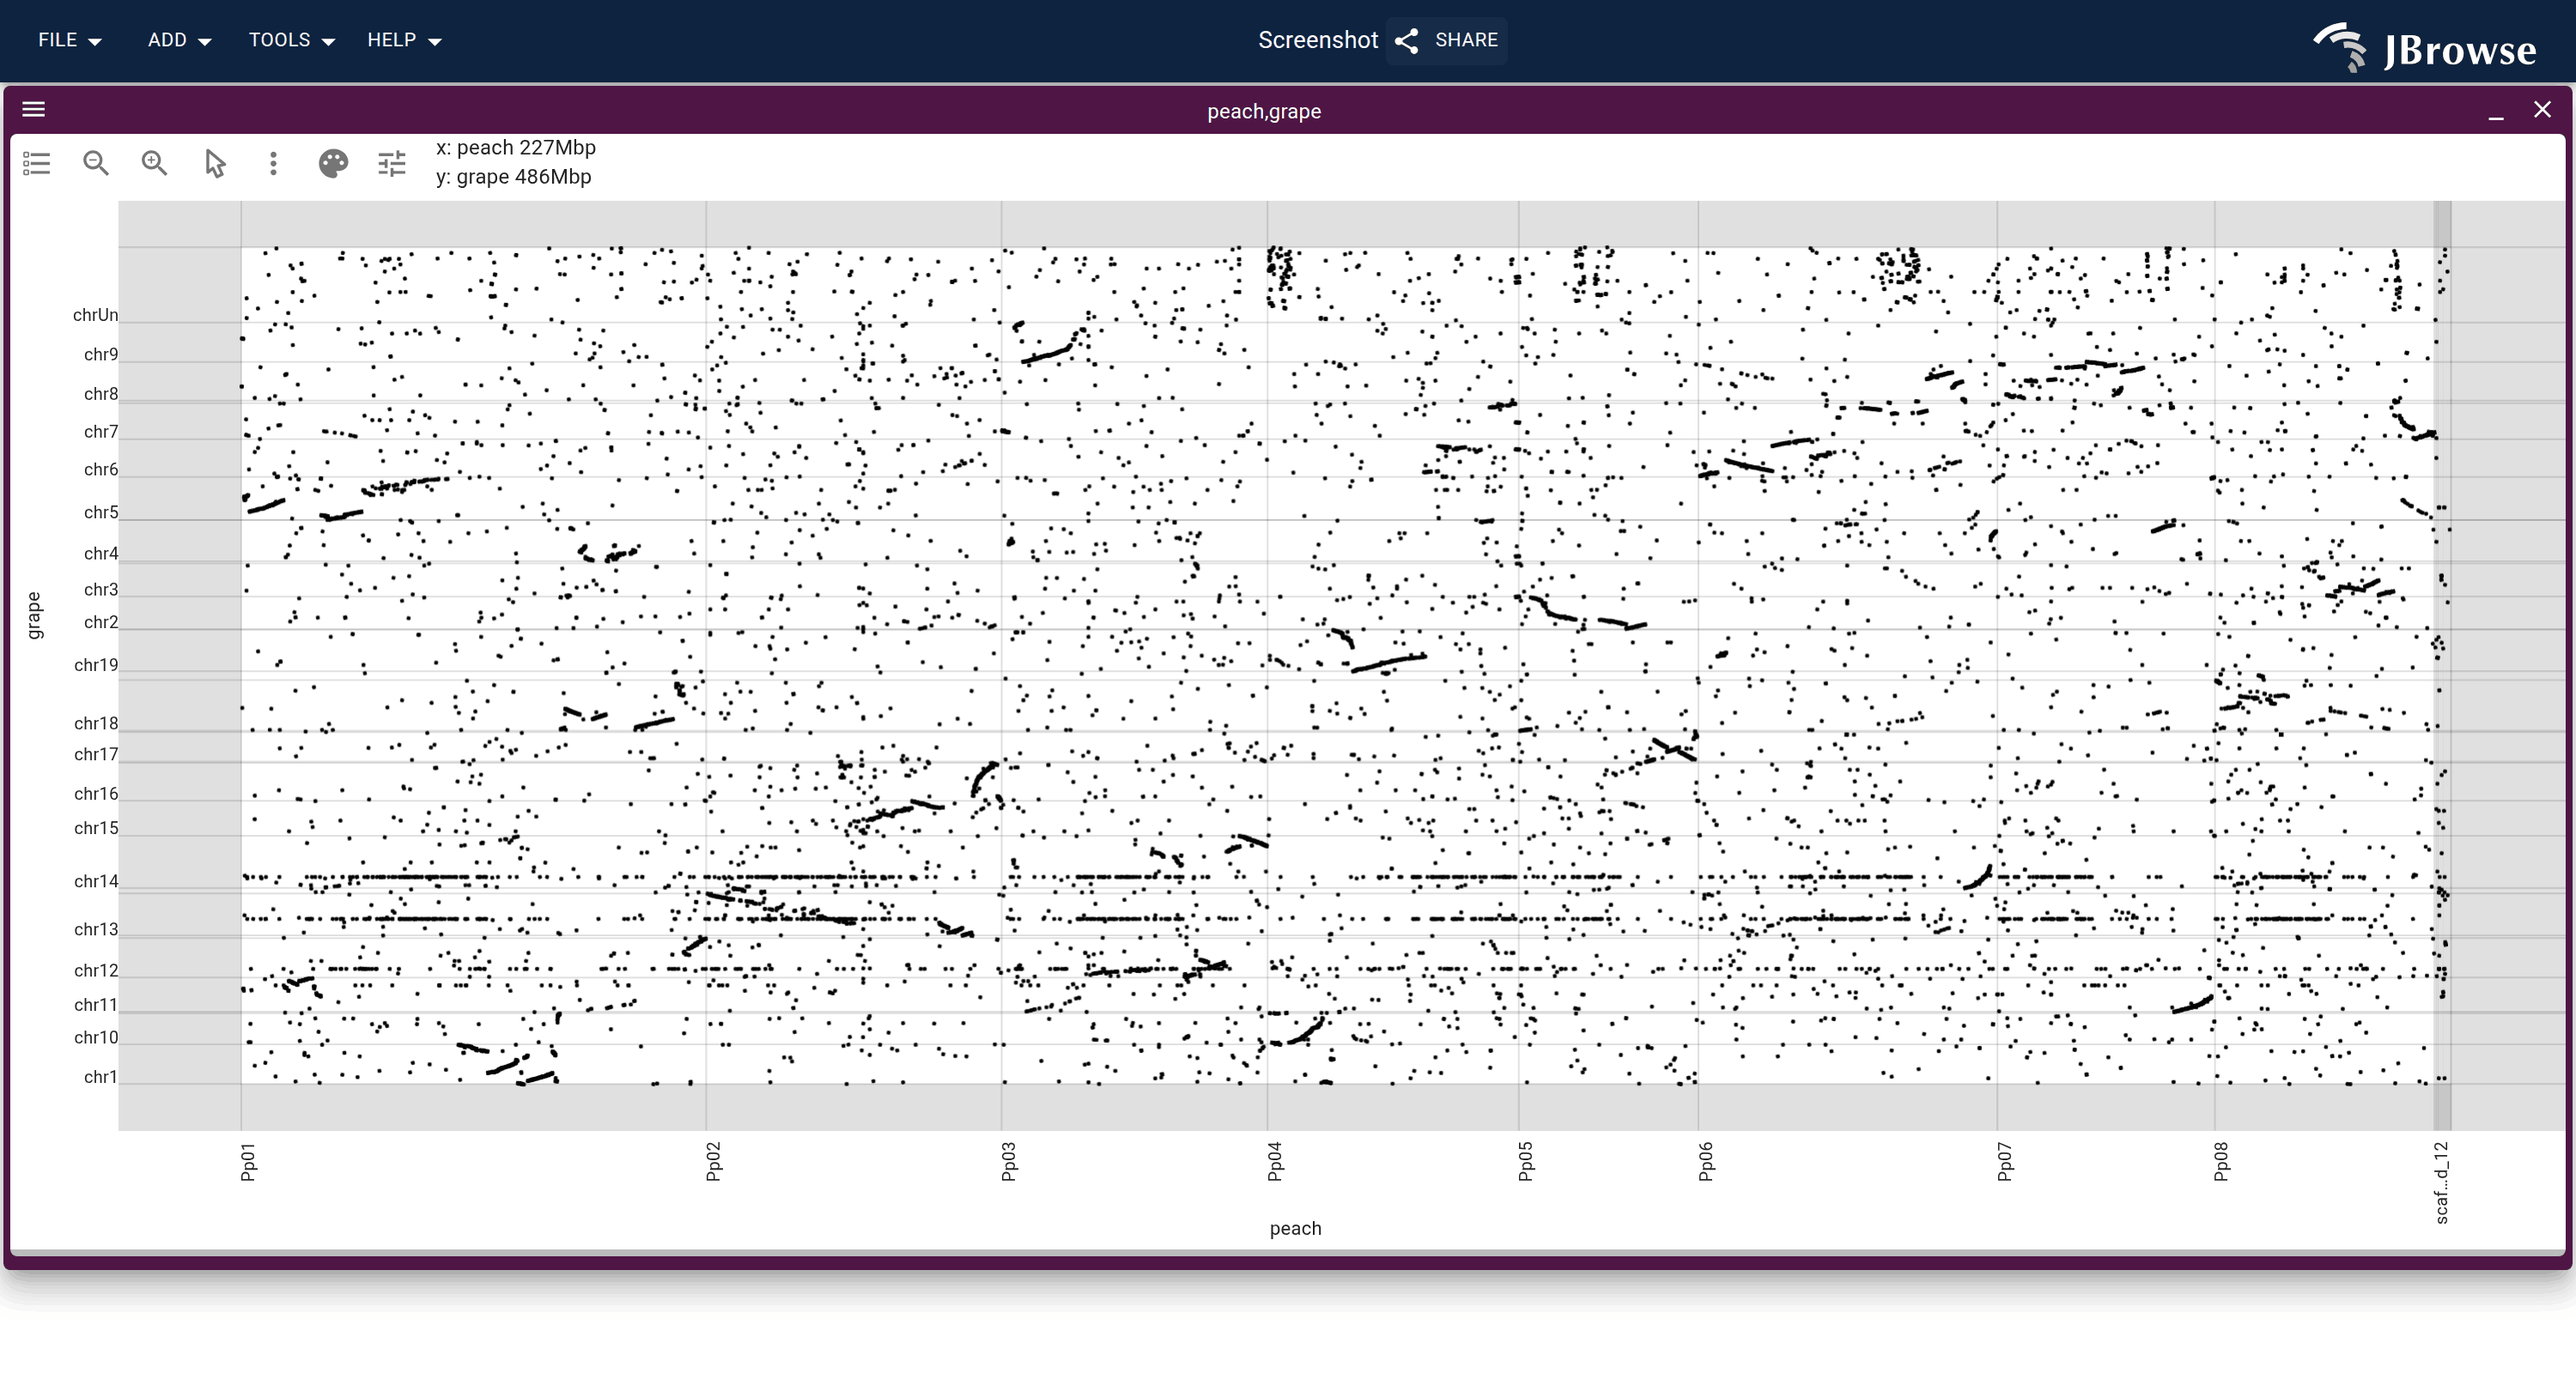
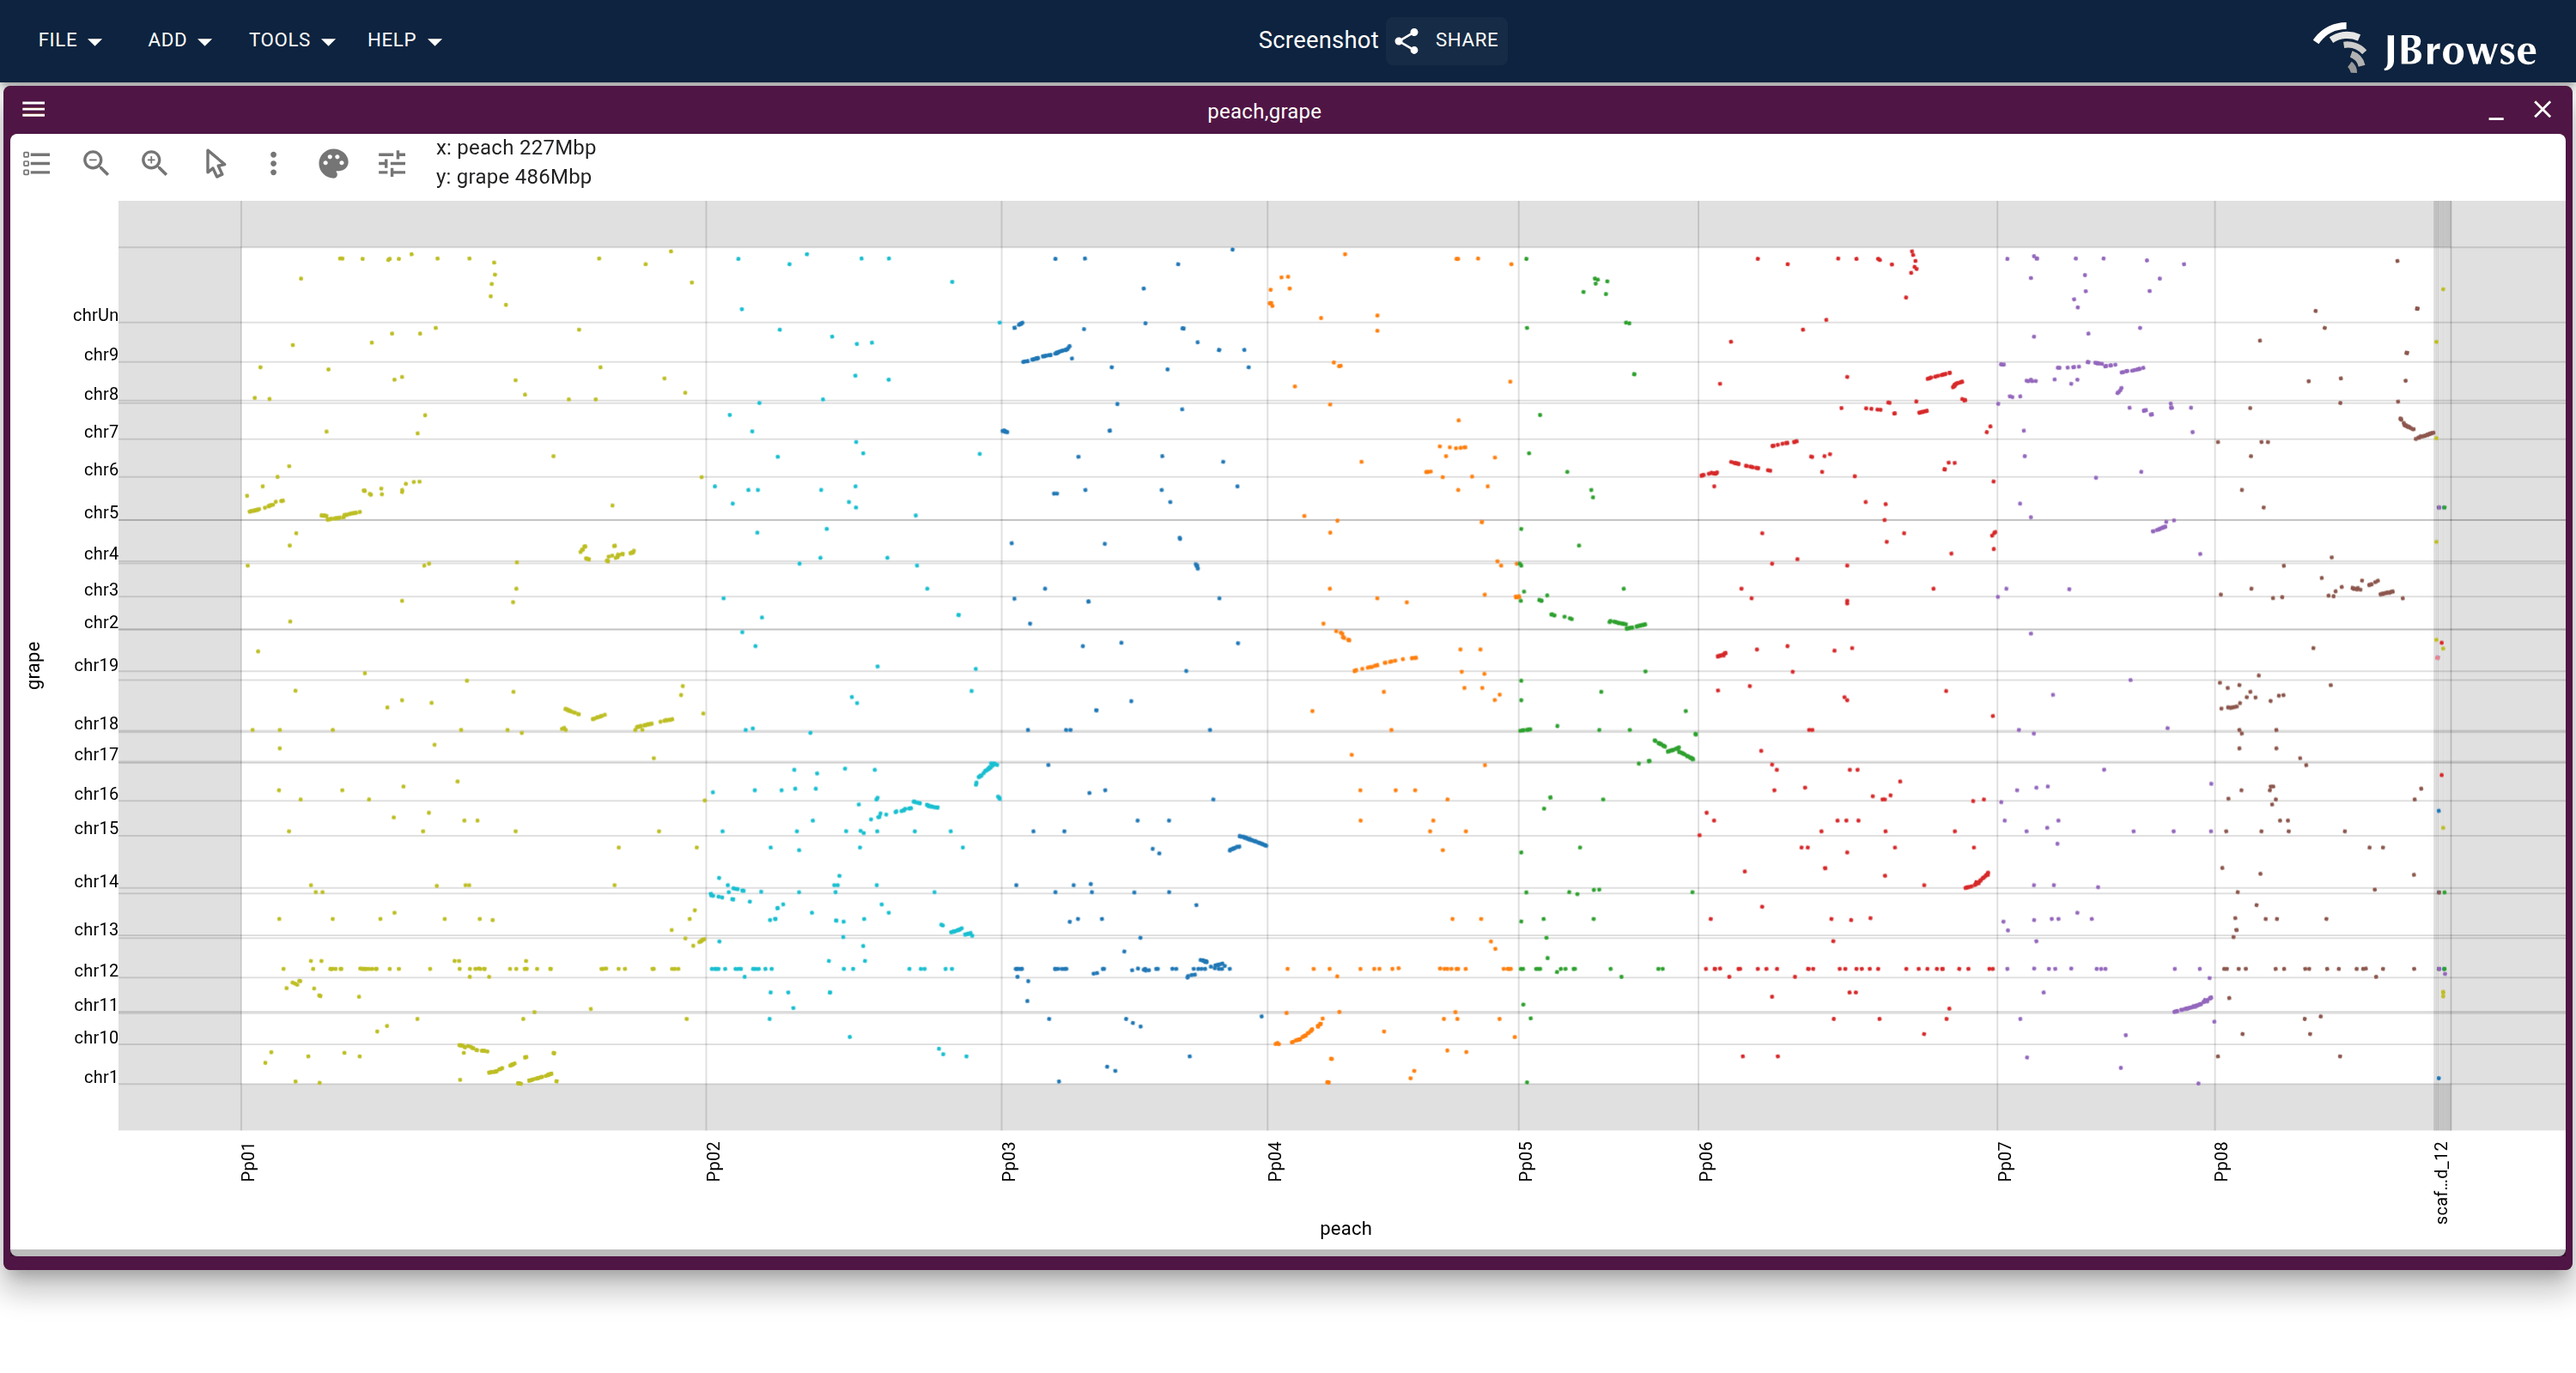
docs(website): make the whole-genome dotplot figure readable
Grape and peach are divergent enough that their PAF is all short hits: the
median block is under a kb and the longest is ~12kb against a 227 x 486 Mbp
plot. Drawn plain and black that was a uniform scatter with the syntenic runs
lost inside it, which is what the gallery card and the dotplot guide have both
been showing.

Bake the two controls that fix it into the spec: a min-length filter keeping
roughly the top tenth by block length, and Color by -> Query. The short diagonal
runs now read as blocks, and the horizontal band across grape chr12 is legible
as every peach chromosome at once, i.e. repeat-rich rather than syntenic.

Document both controls in the guide, since the figure now shows a non-default
state and neither was written up anywhere.

Claude-Session: https://claude.ai/code/session_01PKgU1xuuFcDpteJrZVJYnd

diff --git a/website/scripts/specs/synteny.ts b/website/scripts/specs/synteny.ts
@@ -248,12 +248,24 @@ export const syntenySpecs: ScreenshotSpec[] = [
     name: 'dotplot',
     // use the full peach_grape.paf (grape_peach_paf), not the small in-repo paf
     // that the config defaultSession loads
+    //
+    // Grape and peach are divergent enough that this PAF is all short hits: the
+    // median block is well under a kb and the longest is ~12kb against a 227 x
+    // 486 Mbp plot. Drawn plain and black that is a uniform scatter with the
+    // syntenic runs lost inside it, which is what this figure used to be. The
+    // min-length filter keeps roughly the top tenth by block length, and
+    // per-query coloring separates what survives: the short diagonal runs read
+    // as blocks, and the horizontal band across grape chr12 stays visible but
+    // is now obviously every peach chromosome at once, i.e. a repeat-rich
+    // region rather than synteny.
     url: sessionSpec(DOTPLOT_CONFIG, {
       views: [
         {
           type: 'DotplotView',
           views: [{ assembly: 'peach' }, { assembly: 'grape' }],
           tracks: ['grape_peach_paf'],
+          minAlignmentLength: 2000,
+          colorBy: 'query',
         },
       ],
     }),
@@ -1414,7 +1426,6 @@ export const syntenySpecs: ScreenshotSpec[] = [
     readyTimeout: 60000,
     settleMs: 12000,
   },
-
 
   // ────────────────────────────────────────────────────────────────────────
   // Dotplot / synteny interactions

diff --git a/website/src/lib/gallery.ts b/website/src/lib/gallery.ts
@@ -116,7 +116,7 @@ export const gallerySections: readonly GallerySection[] = [
         spec: 'dotplot',
         guide: 'user_guides/dotplot_view',
         description:
-          'Grape against peach from a minimap2 PAF. The dotplot pans and zooms like any other view, and drag-selecting a block opens that region as a linear synteny view.',
+          'Grape against peach from a minimap2 PAF, colored by query chromosome with short alignments filtered out. The dotplot pans and zooms like any other view, and drag-selecting a block opens that region as a linear synteny view.',
       },
       {
         label: 'Human vs mouse synteny',

diff --git a/website/docs/user_guides/dotplot_view.md b/website/docs/user_guides/dotplot_view.md
@@ -16,11 +16,27 @@ linear synteny view uses, so see
 [Opening a linear synteny view](/docs/user_guides/linear_synteny_view#opening-a-linear-synteny-view)
 for its Quick start / Manual modes and the file types it accepts. The only
 dotplot-specific thing to know is that both axes come from the chosen track's
-`assemblyNames`, and **Swap** transposes the plot rather than reordering panels.
+`assemblyNames` - the
+[query](/docs/user_guides/linear_synteny_view#query-target-and-cigar)
+horizontally and the target vertically - and that **Swap** transposes the plot
+rather than reordering panels.
 
 <Figure caption="Launching a dotplot view from the Add menu (top), then the import form's Manual mode, where you select two assemblies and optionally supply a synteny file (bottom). The same form is shared with the linear synteny view." src="/img/dotplot_add.png" />
 
-<Figure caption="Dotplot of grape (Y-axis) vs peach (X-axis) genomes. Diagonal streaks are syntenic blocks where the two genomes are collinear. Off-diagonal blocks indicate chromosomal rearrangements; reverse-diagonal segments indicate inversions." src="/img/dotplot.png" />
+<Figure caption="Dotplot of grape (Y-axis) vs peach (X-axis) genomes, with Color by set to Query and a minimum alignment length applied. Each peach chromosome takes its own color, so the short diagonal runs read as syntenic blocks; the horizontal band across grape chr12 is every peach chromosome at once, a repeat-rich region rather than synteny." src="/img/dotplot.png" />
+
+### Cutting clutter on a busy plot
+
+Two toolbar controls do most of the work on a whole-genome plot, and the figure
+above uses both:
+
+- The palette button's **Color by** menu. **Query** gives each sequence on the
+  horizontal axis its own color, which separates real syntenic runs from
+  scatter. **Strand** and **Identity** are there too, and each option carries a
+  description of what it colors.
+- **Min length**, in the settings popover, drops alignments shorter than the
+  slider value. Divergent genomes align in many short fragments, and hiding them
+  is usually what makes the syntenic blocks visible at all.
 
 ## Navigation and interaction
 
